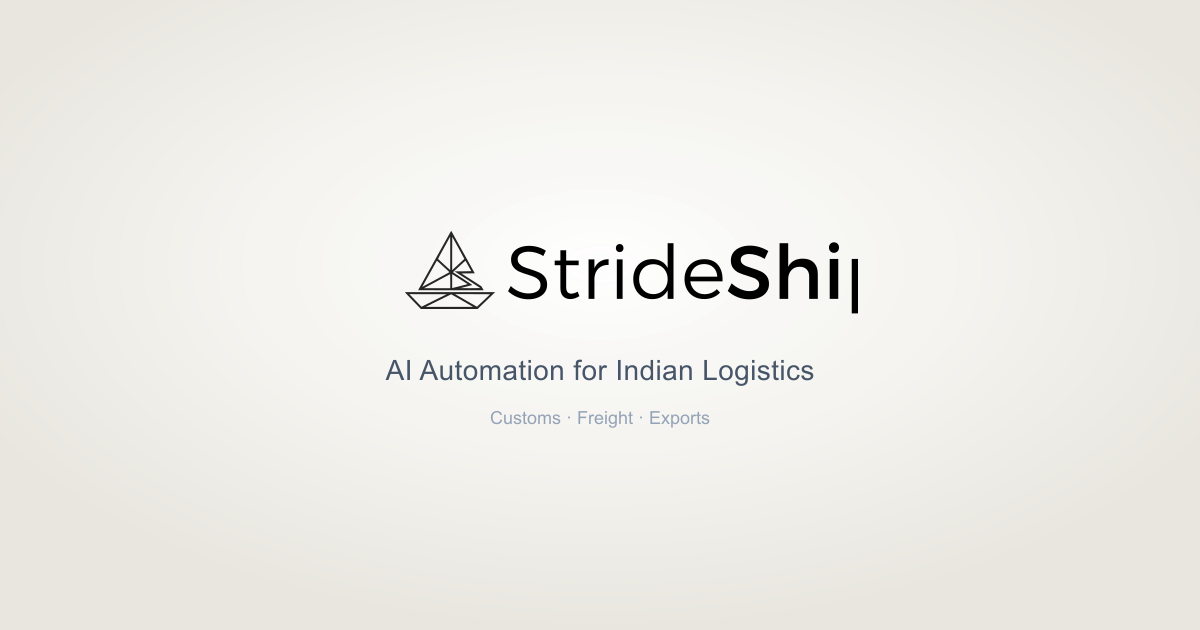
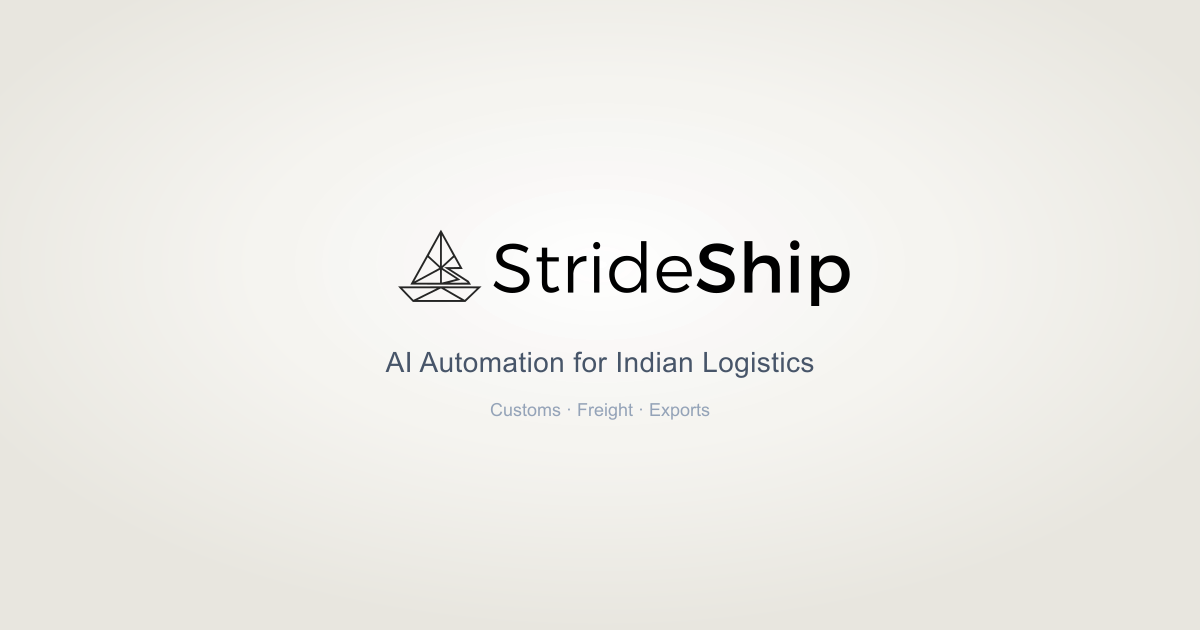
Fix footer wordmark clipping and align exports phase cards.
Widen the black logo crop so StrideShip is fully visible, and normalize phase-card layout baselines.

Changed region(s): [[0.3392, 0.3619, 0.74, 0.5127], [0.3083, 0.5429, 0.6783, 0.6032], [0.4008, 0.6333, 0.5858, 0.6937]]

diff --git a/src/components/exports/exports-model.tsx b/src/components/exports/exports-model.tsx
@@ -103,16 +103,59 @@ export function ExportsModel() {
               display: grid;
               grid-template-columns: repeat(4, 1fr);
               gap: 16px;
+              align-items: stretch;
+            }
+            .process-card {
+              height: 100%;
+              box-sizing: border-box;
+              background-color: #FFFFFF;
+              border-radius: 16px;
+              padding: 28px 24px 24px;
+              border: 1px solid rgba(0, 0, 0, 0.08);
+              display: flex;
+              flex-direction: column;
+              position: relative;
+              overflow: hidden;
+            }
+            .process-card-label {
+              font-size: 0.75rem;
+              font-weight: 700;
+              color: #0F172A;
+              letter-spacing: 0.08em;
+              text-transform: uppercase;
+              font-family: var(--font-worksans), Space Grotesk, sans-serif;
+              height: 1.2em;
+              line-height: 1.2;
+              margin: 0 0 14px;
+              flex-shrink: 0;
+            }
+            .process-card-title {
+              font-size: 1.1rem;
+              font-weight: 700;
+              color: #0F172A;
+              letter-spacing: -0.02em;
+              line-height: 1.3;
+              margin: 0 0 14px;
+              min-height: calc(1.1rem * 1.3 * 2);
+              flex-shrink: 0;
+            }
+            .process-card-body {
+              font-size: 0.9rem;
+              color: #475569;
+              line-height: 1.6;
+              margin: 0;
+              flex: 1;
             }
             @media (max-width: 900px) {
               .process-scroll-container {
                 display: flex;
+                align-items: stretch;
                 overflow-x: auto;
                 scroll-snap-type: x mandatory;
                 scrollbar-width: none;
                 -ms-overflow-style: none;
                 padding-bottom: 16px;
-                margin-right: -4vw; /* Bleed off edge */
+                margin-right: -4vw;
                 padding-right: 4vw;
               }
               .process-scroll-container::-webkit-scrollbar {
@@ -120,7 +163,11 @@ export function ExportsModel() {
               }
               .process-card {
                 min-width: 280px;
+                width: 280px;
+                height: auto;
+                min-height: 280px;
                 scroll-snap-align: start;
+                flex-shrink: 0;
               }
             }
           `}} />
@@ -129,60 +176,27 @@ export function ExportsModel() {
             <motion.div
               key={step.number}
               className="process-card"
-              initial={{ opacity: 0, y: 20 }}
-              whileInView={{ opacity: 1, y: 0 }}
+              initial={{ opacity: 0 }}
+              whileInView={{ opacity: 1 }}
               viewport={{ once: true }}
-              transition={{ duration: 0.5, delay: idx * 0.1, ease: [0.16, 1, 0.3, 1] }}
-              style={{
-                backgroundColor: "#FFFFFF",
-                borderRadius: "16px",
-                padding: "24px",
-                border: "1px solid rgba(0, 0, 0, 0.08)", // No shadow, flat editorial look
-                display: "flex",
-                flexDirection: "column",
-                position: "relative",
-                overflow: "hidden",
-              }}
+              transition={{ duration: 0.45, delay: idx * 0.08, ease: [0.16, 1, 0.3, 1] }}
             >
-              {/* Subtle top accent line instead of a divider at the bottom */}
-              <div style={{ position: "absolute", top: 0, left: 0, width: "100%", height: "3px", backgroundColor: "#0F172A", opacity: 0.1 }} />
-
               <div
+                aria-hidden
                 style={{
-                  fontSize: "0.85rem",
-                  fontWeight: 700,
-                  color: "#0F172A",
-                  marginBottom: "12px",
-                  letterSpacing: "0.05em",
-                  fontFamily: "var(--font-worksans), Space Grotesk, sans-serif",
+                  position: "absolute",
+                  top: 0,
+                  left: 0,
+                  width: "100%",
+                  height: "3px",
+                  backgroundColor: "#0F172A",
+                  opacity: 0.1,
                 }}
-              >
-                PHASE {step.number}
-              </div>
+              />
 
-              <h3
-                style={{
-                  fontSize: "1.1rem",
-                  fontWeight: 700,
-                  color: "#0F172A",
-                  marginBottom: "12px",
-                  letterSpacing: "-0.02em",
-                  lineHeight: 1.3,
-                }}
-              >
-                {step.title}
-              </h3>
-
-              <p
-                style={{
-                  fontSize: "0.9rem",
-                  color: "#475569",
-                  lineHeight: 1.6,
-                  margin: 0,
-                }}
-              >
-                {step.summary}
-              </p>
+              <div className="process-card-label">PHASE {step.number}</div>
+              <h3 className="process-card-title">{step.title}</h3>
+              <p className="process-card-body">{step.summary}</p>
             </motion.div>
           ))}
         </div>

diff --git a/src/components/sections/footer.tsx b/src/components/sections/footer.tsx
@@ -4,7 +4,7 @@ import Link from "next/link";
 
 /* Full official wordmark — black for light footer surfaces */
 function BrandLogo({ height = 22 }: { height?: number }) {
-  const width = Math.round(height * (1220 / 260));
+  const width = Math.round(height * (1330 / 260));
   return (
     // eslint-disable-next-line @next/next/no-img-element
     <img
@@ -15,7 +15,8 @@ function BrandLogo({ height = 22 }: { height?: number }) {
       draggable={false}
       style={{
         height,
-        width,
+        width: "auto",
+        maxWidth: "100%",
         display: "block",
         flexShrink: 0,
         objectFit: "contain",
@@ -53,8 +54,17 @@ export function Footer() {
           }}
         >
           {/* Column 1: Brand, Tagline & Direct Links (Far Left) */}
-          <div style={{ minWidth: "220px" }}>
-            <Link href="/" style={{ textDecoration: "none", display: "inline-flex", alignItems: "center", marginBottom: "12px" }}>
+          <div style={{ minWidth: "260px", overflow: "visible" }}>
+            <Link
+              href="/"
+              style={{
+                textDecoration: "none",
+                display: "inline-block",
+                marginBottom: "12px",
+                overflow: "visible",
+                maxWidth: "100%",
+              }}
+            >
               <BrandLogo height={28} />
             </Link>
 

diff --git a/src/components/sections/navbar.tsx b/src/components/sections/navbar.tsx
@@ -17,7 +17,7 @@ const links = [
 
 /* ── Full StrideShip wordmark (boat + text) — white marks for dark nav ──────── */
 function BrandLogo({ height = 22 }: { height?: number }) {
-  const width = Math.round(height * (1180 / 250));
+  const width = Math.round(height * (1200 / 250));
   return (
     // eslint-disable-next-line @next/next/no-img-element
     <img
@@ -28,7 +28,7 @@ function BrandLogo({ height = 22 }: { height?: number }) {
       draggable={false}
       style={{
         height,
-        width,
+        width: "auto",
         display: "block",
         flexShrink: 0,
         objectFit: "contain",
